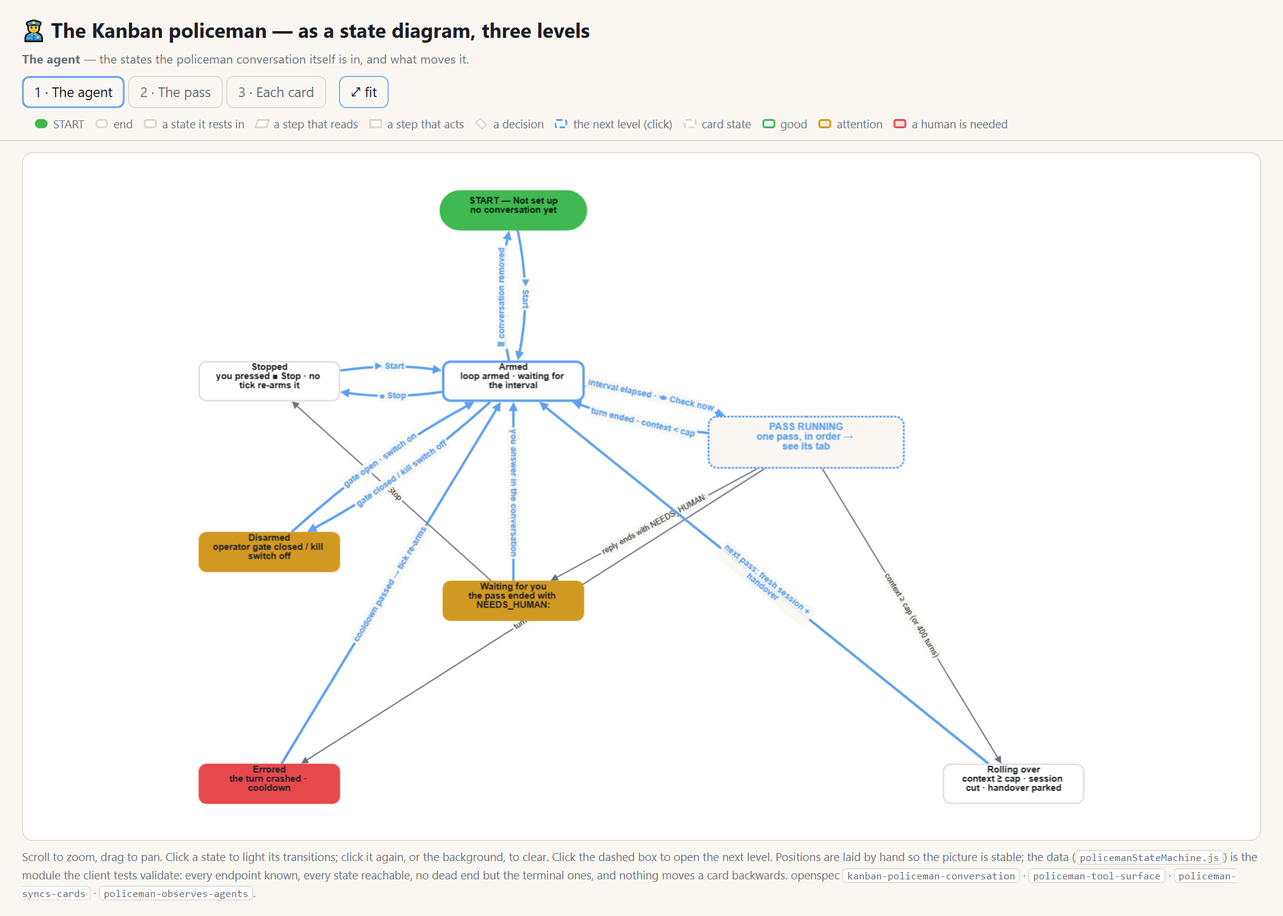
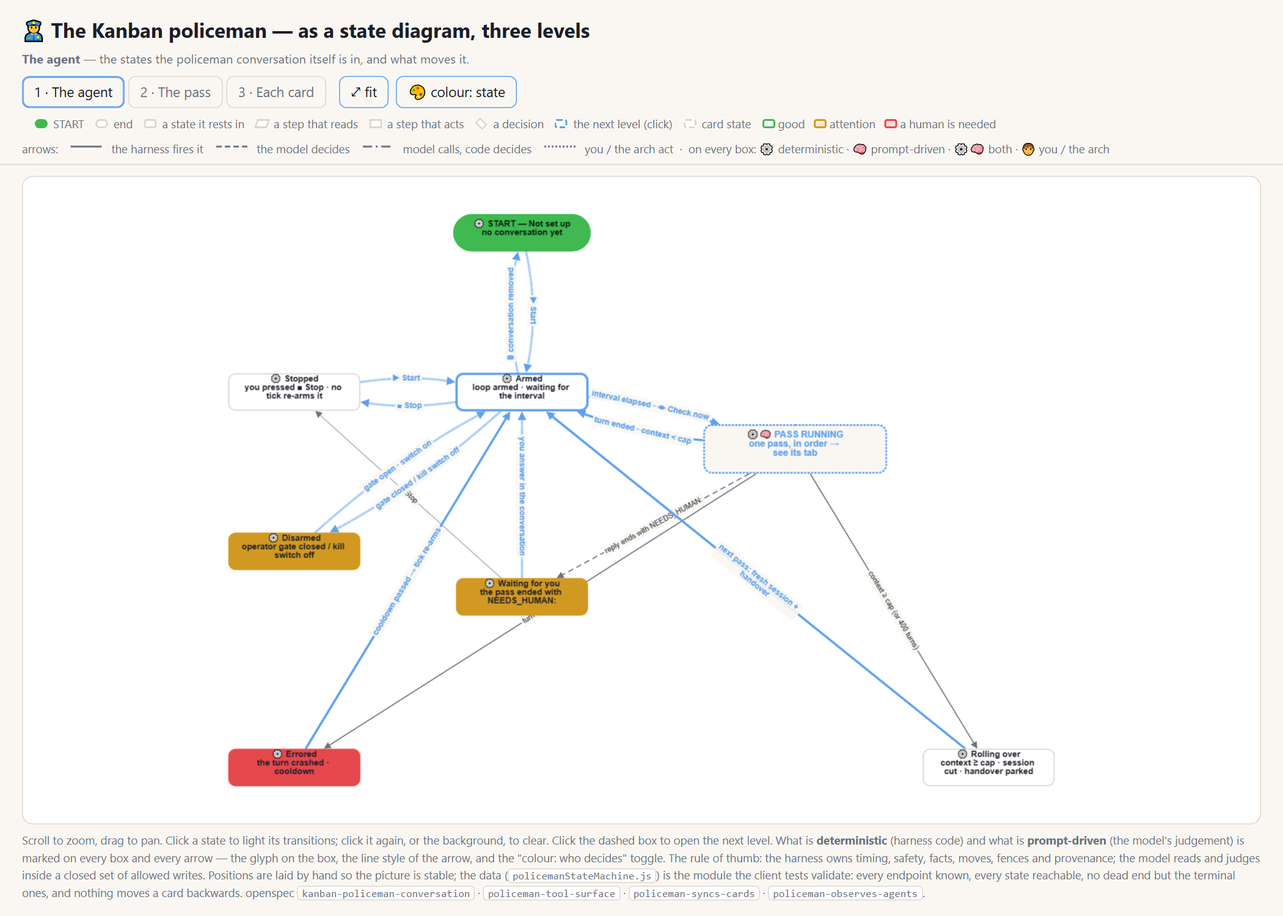
understanding app: who decides — deterministic (harness code) vs prompt-driven (the model) vs mixed vs you, on every node and edge: line styles, glyphs, and a colour-by-who toggle; pinned by tests

diff --git a/client/src/components/taskgraph/policemanStateMachine.js b/client/src/components/taskgraph/policemanStateMachine.js
@@ -23,7 +23,21 @@ export const SHAPES = {
   process: 'a step that acts',
   decision: 'a decision',
 };
-const S = (id, label, sub, x, y, opts = {}) => ({ id, label, sub, x, y, kind: 'state', tone: 'plain', shape: 'state', ...opts });
+// WHO decides — the honest split between program and prompt, on every node and edge:
+//   code  = deterministic: the harness's C# does it (timers, caps, the verifier's facts and
+//           moves, the tool fences, the mechanical judge, provenance stamps)
+//   model = prompt-driven: the policeman (an LLM turn) judges or chooses (reading a transcript,
+//           picking an observation state, deciding to flag, writing the verdict, the step order)
+//   mixed = the model calls it, the code decides the outcome (sync_card links → the verifier
+//           moves; flag_needs_human → the code stamps and refuses manual cards)
+//   human = outside the policeman: you, or the arch agent (Start/Stop, Resolve, assign, ping)
+export const WHO = {
+  code: { glyph: '⚙', word: 'deterministic — harness code' },
+  model: { glyph: '🧠', word: 'prompt-driven — the model judges' },
+  mixed: { glyph: '⚙🧠', word: 'the model calls it, the code decides' },
+  human: { glyph: '🧑', word: 'you, or the arch agent' },
+};
+const S = (id, label, sub, x, y, opts = {}) => ({ id, label, sub, x, y, kind: 'state', tone: 'plain', shape: 'state', who: 'code', ...opts });
 
 export const NODES = [
   // ---- groups (compound parents) ---------------------------------------------------------------
@@ -44,44 +58,44 @@ export const NODES = [
   S('s1', '1 · board_integrity', 'read the harness’s verdict', -440, 0, { parent: 'pass', kind: 'step', shape: 'io' }),
   S('s2', '2 · list_tasks', 'read every card and its marks', -120, 0, { parent: 'pass', kind: 'step', shape: 'io' }),
   S('s3', '3 · read_transcript', 'read the assignee’s last 4 messages', 200, 0, { parent: 'pass', kind: 'step', shape: 'io' }),
-  S('s4', '4 · classify', 'which state is this card in?', 560, 0, { parent: 'pass', kind: 'step', tone: 'ok', shape: 'decision' }),
+  S('s4', '4 · classify', 'which state is this card in?', 560, 0, { parent: 'pass', kind: 'step', tone: 'ok', shape: 'decision', who: 'model' }),
   S('s5', '5 · list_pull_requests', 'read each repo’s PRs, traced to cards', 560, 200, { parent: 'pass', kind: 'step', shape: 'io' }),
-  S('s6', '6 · sync_card', 'link the PR · the harness moves the card', 200, 200, { parent: 'pass', kind: 'step', tone: 'ok', shape: 'process' }),
-  S('s7', '7 · flag / clear', 'flag_needs_human · clear_needs_human', -120, 200, { parent: 'pass', kind: 'step', tone: 'bad', shape: 'process' }),
-  S('s8', '8 · verdict', 'counts · moves · observations · flags', -440, 200, { parent: 'pass', kind: 'step', shape: 'terminal' }),
+  S('s6', '6 · sync_card', 'link the PR · the harness moves the card', 200, 200, { parent: 'pass', kind: 'step', tone: 'ok', shape: 'process', who: 'mixed' }),
+  S('s7', '7 · flag / clear', 'flag_needs_human · clear_needs_human', -120, 200, { parent: 'pass', kind: 'step', tone: 'bad', shape: 'process', who: 'mixed' }),
+  S('s8', '8 · verdict', 'counts · moves · observations · flags', -440, 200, { parent: 'pass', kind: 'step', shape: 'terminal', who: 'model' }),
 
   // ---- level 3: each card (inside "cards") -------------------------------------------------
   S('c-unassigned', '📥 Unassigned', 'To do, nobody on it → nothing', -120, 560, { parent: 'cards', kind: 'card' }),
   S('c-waiting', '⏳ Waiting for the arch', 'assigned, not pinged → nothing', 220, 560, { parent: 'cards', kind: 'card' }),
-  S('c-working', '⚙ Working', 'agent active, column = facts → observe Working', 560, 560, { parent: 'cards', kind: 'card', tone: 'ok' }),
+  S('c-working', 'Working', 'agent active, column = facts → observe Working', 560, 560, { parent: 'cards', kind: 'card', tone: 'ok', who: 'model' }),
   S('c-ahead', '⚠ Ahead of the facts', 'column > verified → report; never demote', 1000, 560, { parent: 'cards', kind: 'card', tone: 'warn' }),
   S('c-behind', '⏩ Behind the facts', 'PR / merge found → sync_card', 220, 840, { parent: 'cards', kind: 'card', tone: 'ok' }),
-  S('c-stuck', '🛑 Stuck', 'asked · blocked · errored · silent → observe, flag', 560, 840, { parent: 'cards', kind: 'card', tone: 'bad' }),
+  S('c-stuck', '🛑 Stuck', 'asked · blocked · errored · silent → observe, flag', 560, 840, { parent: 'cards', kind: 'card', tone: 'bad', who: 'mixed' }),
   S('c-skip', '🚫 Not mine', 'manual or delivered → leave alone', 1000, 840, { parent: 'cards', kind: 'card', shape: 'terminal' }),
   S('c-flagged', '🆘 Flagged', 'human request on it → clear if mine & resolved', -120, 1120, { parent: 'cards', kind: 'card', tone: 'bad' }),
-  S('c-review', '👀 Waiting for review', 'PR open, agent done → observe; report if stale', 560, 1120, { parent: 'cards', kind: 'card' }),
+  S('c-review', '👀 Waiting for review', 'PR open, agent done → observe; report if stale', 560, 1120, { parent: 'cards', kind: 'card', who: 'mixed' }),
 ];
 
-const E = (source, target, label, kind = 'lifecycle') => ({ id: `${source}->${target}`, source, target, label, kind });
+const E = (source, target, label, kind = 'lifecycle', who = kind === 'flow' || kind === 'link' ? 'model' : 'code') => ({ id: `${source}->${target}`, source, target, label, kind, who });
 
 export const EDGES = [
   // ---- level 1: the agent ------------------------------------------------------------------
-  E('off', 'armed', '▶ Start'),
+  E('off', 'armed', '▶ Start', 'lifecycle', 'human'),
   E('armed', 'pass', 'interval elapsed · 👁 Check now'),
   E('pass', 'armed', 'turn ended · context < cap'),
-  E('pass', 'wait', 'reply ends with NEEDS_HUMAN:'),
-  E('wait', 'armed', 'you answer in the conversation'),
+  E('pass', 'wait', 'reply ends with NEEDS_HUMAN:', 'lifecycle', 'model'),
+  E('wait', 'armed', 'you answer in the conversation', 'lifecycle', 'human'),
   E('pass', 'rollover', 'context ≥ cap (or 400 turns)'),
   E('rollover', 'armed', 'next pass: fresh session + handover'),
   E('pass', 'errored', 'turn crashed'),
   E('errored', 'armed', 'cooldown passed → tick re-arms'),
   E('armed', 'armed', 'pass 100 (recipe cap) → tick re-arms'),
-  E('armed', 'stopped', '■ Stop'),
-  E('wait', 'stopped', '■ Stop'),
-  E('stopped', 'armed', '▶ Start'),
-  E('armed', 'paused', 'gate closed / kill switch off'),
-  E('paused', 'armed', 'gate open · switch on'),
-  E('armed', 'off', '🗑 conversation removed'),
+  E('armed', 'stopped', '■ Stop', 'lifecycle', 'human'),
+  E('wait', 'stopped', '■ Stop', 'lifecycle', 'human'),
+  E('stopped', 'armed', '▶ Start', 'lifecycle', 'human'),
+  E('armed', 'paused', 'gate closed / kill switch off', 'lifecycle', 'human'),
+  E('paused', 'armed', 'gate open · switch on', 'lifecycle', 'human'),
+  E('armed', 'off', '🗑 conversation removed', 'lifecycle', 'human'),
 
   // ---- level 2: the pass -------------------------------------------------------------------
   E('s1', 's2', '', 'flow'),
@@ -96,31 +110,31 @@ export const EDGES = [
   E('s4', 'cards', 'lands in exactly one of', 'link'),
 
   // ---- level 3: each card ------------------------------------------------------------------
-  E('c-unassigned', 'c-waiting', 'arch or you assign', 'card'),
-  E('c-waiting', 'c-working', 'arch pings', 'card'),
-  E('c-working', 'c-ahead', 'someone moved it past the facts', 'card'),
+  E('c-unassigned', 'c-waiting', 'arch or you assign', 'card', 'human'),
+  E('c-waiting', 'c-working', 'arch pings', 'card', 'human'),
+  E('c-working', 'c-ahead', 'someone moved it past the facts', 'card', 'human'),
   E('c-ahead', 'c-working', 'facts catch up', 'card'),
   E('c-working', 'c-behind', 'PR traced to the card', 'card'),
-  E('c-working', 'c-stuck', 'asks · blocks · errors · silent > window', 'card'),
+  E('c-working', 'c-stuck', 'asks · blocks · errors · silent > window', 'card', 'mixed'),
   E('c-working', 'c-skip', 'delivered · go manual', 'card'),
-  E('c-ahead', 'c-stuck', 'keeps lying, nobody fixes it', 'card'),
+  E('c-ahead', 'c-stuck', 'keeps lying, nobody fixes it', 'card', 'model'),
   E('c-behind', 'c-review', 'sync_card → PR open', 'card'),
   E('c-behind', 'c-skip', 'sync_card → merged / done', 'card'),
   E('c-review', 'c-skip', 'merged', 'card'),
   E('c-review', 'c-ahead', 'PR closed unmerged', 'card'),
-  E('c-stuck', 'c-flagged', 'flag_needs_human (with reason)', 'card'),
-  E('c-flagged', 'c-working', 'you Resolve · agent back on track', 'card'),
+  E('c-stuck', 'c-flagged', 'flag_needs_human (with reason)', 'card', 'mixed'),
+  E('c-flagged', 'c-working', 'you Resolve · agent back on track', 'card', 'human'),
 ];
 
 /** Cytoscape elements: nodes carry their preset position; groups none (they size to children). */
 export function toElements() {
   return [
     ...NODES.map((n) => ({
-      data: { id: n.id, label: n.label, sub: n.sub || '', kind: n.kind, tone: n.tone || 'plain', shape: n.shape || (n.kind === 'group' ? 'group' : 'state'), parent: n.parent || undefined },
+      data: { id: n.id, label: n.label, sub: n.sub || '', kind: n.kind, tone: n.tone || 'plain', shape: n.shape || (n.kind === 'group' ? 'group' : 'state'), who: n.who || 'code', parent: n.parent || undefined },
       position: n.kind === 'group' ? undefined : { x: n.x, y: n.y },
-      classes: `${n.kind} tone-${n.tone || 'plain'} shape-${n.shape || (n.kind === 'group' ? 'group' : 'state')}`,
+      classes: `${n.kind} tone-${n.tone || 'plain'} shape-${n.shape || (n.kind === 'group' ? 'group' : 'state')} who-${n.who || 'code'}`,
     })),
-    ...EDGES.map((e) => ({ data: { id: e.id, source: e.source, target: e.target, label: e.label, kind: e.kind, curve: e.curve || 'bezier' }, classes: e.kind })),
+    ...EDGES.map((e) => ({ data: { id: e.id, source: e.source, target: e.target, label: e.label, kind: e.kind, who: e.who || 'code', curve: e.curve || 'bezier' }, classes: `${e.kind} who-${e.who || 'code'}` })),
   ];
 }
 
@@ -143,16 +157,16 @@ export function levelElements(level) {
   const own = NODES.filter((n) => n.kind !== 'group' && n.parent === level);
   const ids = new Set(own.map((n) => n.id));
   const nodes = own.map((n) => ({
-    data: { id: n.id, label: n.label, sub: n.sub || '', kind: n.kind, tone: n.tone || 'plain', shape: n.shape || 'state' },
+    data: { id: n.id, label: n.label, sub: n.sub || '', kind: n.kind, tone: n.tone || 'plain', shape: n.shape || 'state', who: n.who || 'code' },
     position: { x: n.x, y: n.y },
-    classes: `${n.kind} tone-${n.tone || 'plain'} shape-${n.shape || 'state'}`,
+    classes: `${n.kind} tone-${n.tone || 'plain'} shape-${n.shape || 'state'} who-${n.who || 'code'}`,
   }));
   if (L.ref) {
     ids.add(L.ref.id);
-    nodes.push({ data: { id: L.ref.id, label: L.ref.label, sub: L.ref.sub, kind: 'ref', tone: 'plain', shape: 'ref', to: L.ref.to }, position: { x: L.ref.x, y: L.ref.y }, classes: 'ref shape-ref' });
+    nodes.push({ data: { id: L.ref.id, label: L.ref.label, sub: L.ref.sub, kind: 'ref', tone: 'plain', shape: 'ref', who: 'mixed', to: L.ref.to }, position: { x: L.ref.x, y: L.ref.y }, classes: 'ref shape-ref who-mixed' });
   }
   const edges = EDGES.filter((e) => ids.has(e.source) && ids.has(e.target)).map((e) => ({
-    data: { id: e.id, source: e.source, target: e.target, label: e.label, kind: e.kind, curve: e.curve || 'bezier' }, classes: e.kind,
+    data: { id: e.id, source: e.source, target: e.target, label: e.label, kind: e.kind, who: e.who || 'code', curve: e.curve || 'bezier' }, classes: `${e.kind} who-${e.who || 'code'}`,
   }));
   return [...nodes, ...edges];
 }
@@ -167,6 +181,8 @@ export function validate() {
     if (!ids.has(e.source)) problems.push(`${e.id}: unknown source`);
     if (!ids.has(e.target)) problems.push(`${e.id}: unknown target`);
   }
+  for (const n of NODES) if (n.kind !== 'group' && !WHO[n.who || 'code']) problems.push(`${n.id}: unknown who ${n.who}`);
+  for (const e of EDGES) if (!WHO[e.who || 'code']) problems.push(`${e.id}: unknown who ${e.who}`);
   const outs = new Set(EDGES.map((e) => e.source));
   const ins = new Set(EDGES.map((e) => e.target));
   for (const n of NODES) {

diff --git a/understanding-app/policemanStateMachine.js b/understanding-app/policemanStateMachine.js
@@ -24,7 +24,21 @@ export const SHAPES = {
   process: 'a step that acts',
   decision: 'a decision',
 };
-const S = (id, label, sub, x, y, opts = {}) => ({ id, label, sub, x, y, kind: 'state', tone: 'plain', shape: 'state', ...opts });
+// WHO decides — the honest split between program and prompt, on every node and edge:
+//   code  = deterministic: the harness's C# does it (timers, caps, the verifier's facts and
+//           moves, the tool fences, the mechanical judge, provenance stamps)
+//   model = prompt-driven: the policeman (an LLM turn) judges or chooses (reading a transcript,
+//           picking an observation state, deciding to flag, writing the verdict, the step order)
+//   mixed = the model calls it, the code decides the outcome (sync_card links → the verifier
+//           moves; flag_needs_human → the code stamps and refuses manual cards)
+//   human = outside the policeman: you, or the arch agent (Start/Stop, Resolve, assign, ping)
+export const WHO = {
+  code: { glyph: '⚙', word: 'deterministic — harness code' },
+  model: { glyph: '🧠', word: 'prompt-driven — the model judges' },
+  mixed: { glyph: '⚙🧠', word: 'the model calls it, the code decides' },
+  human: { glyph: '🧑', word: 'you, or the arch agent' },
+};
+const S = (id, label, sub, x, y, opts = {}) => ({ id, label, sub, x, y, kind: 'state', tone: 'plain', shape: 'state', who: 'code', ...opts });
 
 export const NODES = [
   // ---- groups (compound parents) ---------------------------------------------------------------
@@ -45,44 +59,44 @@ export const NODES = [
   S('s1', '1 · board_integrity', 'read the harness’s verdict', -440, 0, { parent: 'pass', kind: 'step', shape: 'io' }),
   S('s2', '2 · list_tasks', 'read every card and its marks', -120, 0, { parent: 'pass', kind: 'step', shape: 'io' }),
   S('s3', '3 · read_transcript', 'read the assignee’s last 4 messages', 200, 0, { parent: 'pass', kind: 'step', shape: 'io' }),
-  S('s4', '4 · classify', 'which state is this card in?', 560, 0, { parent: 'pass', kind: 'step', tone: 'ok', shape: 'decision' }),
+  S('s4', '4 · classify', 'which state is this card in?', 560, 0, { parent: 'pass', kind: 'step', tone: 'ok', shape: 'decision', who: 'model' }),
   S('s5', '5 · list_pull_requests', 'read each repo’s PRs, traced to cards', 560, 200, { parent: 'pass', kind: 'step', shape: 'io' }),
-  S('s6', '6 · sync_card', 'link the PR · the harness moves the card', 200, 200, { parent: 'pass', kind: 'step', tone: 'ok', shape: 'process' }),
-  S('s7', '7 · flag / clear', 'flag_needs_human · clear_needs_human', -120, 200, { parent: 'pass', kind: 'step', tone: 'bad', shape: 'process' }),
-  S('s8', '8 · verdict', 'counts · moves · observations · flags', -440, 200, { parent: 'pass', kind: 'step', shape: 'terminal' }),
+  S('s6', '6 · sync_card', 'link the PR · the harness moves the card', 200, 200, { parent: 'pass', kind: 'step', tone: 'ok', shape: 'process', who: 'mixed' }),
+  S('s7', '7 · flag / clear', 'flag_needs_human · clear_needs_human', -120, 200, { parent: 'pass', kind: 'step', tone: 'bad', shape: 'process', who: 'mixed' }),
+  S('s8', '8 · verdict', 'counts · moves · observations · flags', -440, 200, { parent: 'pass', kind: 'step', shape: 'terminal', who: 'model' }),
 
   // ---- level 3: each card (inside "cards") -------------------------------------------------
   S('c-unassigned', '📥 Unassigned', 'To do, nobody on it → nothing', -120, 560, { parent: 'cards', kind: 'card' }),
   S('c-waiting', '⏳ Waiting for the arch', 'assigned, not pinged → nothing', 220, 560, { parent: 'cards', kind: 'card' }),
-  S('c-working', '⚙ Working', 'agent active, column = facts → observe Working', 560, 560, { parent: 'cards', kind: 'card', tone: 'ok' }),
+  S('c-working', 'Working', 'agent active, column = facts → observe Working', 560, 560, { parent: 'cards', kind: 'card', tone: 'ok', who: 'model' }),
   S('c-ahead', '⚠ Ahead of the facts', 'column > verified → report; never demote', 1000, 560, { parent: 'cards', kind: 'card', tone: 'warn' }),
   S('c-behind', '⏩ Behind the facts', 'PR / merge found → sync_card', 220, 840, { parent: 'cards', kind: 'card', tone: 'ok' }),
-  S('c-stuck', '🛑 Stuck', 'asked · blocked · errored · silent → observe, flag', 560, 840, { parent: 'cards', kind: 'card', tone: 'bad' }),
+  S('c-stuck', '🛑 Stuck', 'asked · blocked · errored · silent → observe, flag', 560, 840, { parent: 'cards', kind: 'card', tone: 'bad', who: 'mixed' }),
   S('c-skip', '🚫 Not mine', 'manual or delivered → leave alone', 1000, 840, { parent: 'cards', kind: 'card', shape: 'terminal' }),
   S('c-flagged', '🆘 Flagged', 'human request on it → clear if mine & resolved', -120, 1120, { parent: 'cards', kind: 'card', tone: 'bad' }),
-  S('c-review', '👀 Waiting for review', 'PR open, agent done → observe; report if stale', 560, 1120, { parent: 'cards', kind: 'card' }),
+  S('c-review', '👀 Waiting for review', 'PR open, agent done → observe; report if stale', 560, 1120, { parent: 'cards', kind: 'card', who: 'mixed' }),
 ];
 
-const E = (source, target, label, kind = 'lifecycle') => ({ id: `${source}->${target}`, source, target, label, kind });
+const E = (source, target, label, kind = 'lifecycle', who = kind === 'flow' || kind === 'link' ? 'model' : 'code') => ({ id: `${source}->${target}`, source, target, label, kind, who });
 
 export const EDGES = [
   // ---- level 1: the agent ------------------------------------------------------------------
-  E('off', 'armed', '▶ Start'),
+  E('off', 'armed', '▶ Start', 'lifecycle', 'human'),
   E('armed', 'pass', 'interval elapsed · 👁 Check now'),
   E('pass', 'armed', 'turn ended · context < cap'),
-  E('pass', 'wait', 'reply ends with NEEDS_HUMAN:'),
-  E('wait', 'armed', 'you answer in the conversation'),
+  E('pass', 'wait', 'reply ends with NEEDS_HUMAN:', 'lifecycle', 'model'),
+  E('wait', 'armed', 'you answer in the conversation', 'lifecycle', 'human'),
   E('pass', 'rollover', 'context ≥ cap (or 400 turns)'),
   E('rollover', 'armed', 'next pass: fresh session + handover'),
   E('pass', 'errored', 'turn crashed'),
   E('errored', 'armed', 'cooldown passed → tick re-arms'),
   E('armed', 'armed', 'pass 100 (recipe cap) → tick re-arms'),
-  E('armed', 'stopped', '■ Stop'),
-  E('wait', 'stopped', '■ Stop'),
-  E('stopped', 'armed', '▶ Start'),
-  E('armed', 'paused', 'gate closed / kill switch off'),
-  E('paused', 'armed', 'gate open · switch on'),
-  E('armed', 'off', '🗑 conversation removed'),
+  E('armed', 'stopped', '■ Stop', 'lifecycle', 'human'),
+  E('wait', 'stopped', '■ Stop', 'lifecycle', 'human'),
+  E('stopped', 'armed', '▶ Start', 'lifecycle', 'human'),
+  E('armed', 'paused', 'gate closed / kill switch off', 'lifecycle', 'human'),
+  E('paused', 'armed', 'gate open · switch on', 'lifecycle', 'human'),
+  E('armed', 'off', '🗑 conversation removed', 'lifecycle', 'human'),
 
   // ---- level 2: the pass -------------------------------------------------------------------
   E('s1', 's2', '', 'flow'),
@@ -97,31 +111,31 @@ export const EDGES = [
   E('s4', 'cards', 'lands in exactly one of', 'link'),
 
   // ---- level 3: each card ------------------------------------------------------------------
-  E('c-unassigned', 'c-waiting', 'arch or you assign', 'card'),
-  E('c-waiting', 'c-working', 'arch pings', 'card'),
-  E('c-working', 'c-ahead', 'someone moved it past the facts', 'card'),
+  E('c-unassigned', 'c-waiting', 'arch or you assign', 'card', 'human'),
+  E('c-waiting', 'c-working', 'arch pings', 'card', 'human'),
+  E('c-working', 'c-ahead', 'someone moved it past the facts', 'card', 'human'),
   E('c-ahead', 'c-working', 'facts catch up', 'card'),
   E('c-working', 'c-behind', 'PR traced to the card', 'card'),
-  E('c-working', 'c-stuck', 'asks · blocks · errors · silent > window', 'card'),
+  E('c-working', 'c-stuck', 'asks · blocks · errors · silent > window', 'card', 'mixed'),
   E('c-working', 'c-skip', 'delivered · go manual', 'card'),
-  E('c-ahead', 'c-stuck', 'keeps lying, nobody fixes it', 'card'),
+  E('c-ahead', 'c-stuck', 'keeps lying, nobody fixes it', 'card', 'model'),
   E('c-behind', 'c-review', 'sync_card → PR open', 'card'),
   E('c-behind', 'c-skip', 'sync_card → merged / done', 'card'),
   E('c-review', 'c-skip', 'merged', 'card'),
   E('c-review', 'c-ahead', 'PR closed unmerged', 'card'),
-  E('c-stuck', 'c-flagged', 'flag_needs_human (with reason)', 'card'),
-  E('c-flagged', 'c-working', 'you Resolve · agent back on track', 'card'),
+  E('c-stuck', 'c-flagged', 'flag_needs_human (with reason)', 'card', 'mixed'),
+  E('c-flagged', 'c-working', 'you Resolve · agent back on track', 'card', 'human'),
 ];
 
 /** Cytoscape elements: nodes carry their preset position; groups none (they size to children). */
 export function toElements() {
   return [
     ...NODES.map((n) => ({
-      data: { id: n.id, label: n.label, sub: n.sub || '', kind: n.kind, tone: n.tone || 'plain', shape: n.shape || (n.kind === 'group' ? 'group' : 'state'), parent: n.parent || undefined },
+      data: { id: n.id, label: n.label, sub: n.sub || '', kind: n.kind, tone: n.tone || 'plain', shape: n.shape || (n.kind === 'group' ? 'group' : 'state'), who: n.who || 'code', parent: n.parent || undefined },
       position: n.kind === 'group' ? undefined : { x: n.x, y: n.y },
-      classes: `${n.kind} tone-${n.tone || 'plain'} shape-${n.shape || (n.kind === 'group' ? 'group' : 'state')}`,
+      classes: `${n.kind} tone-${n.tone || 'plain'} shape-${n.shape || (n.kind === 'group' ? 'group' : 'state')} who-${n.who || 'code'}`,
     })),
-    ...EDGES.map((e) => ({ data: { id: e.id, source: e.source, target: e.target, label: e.label, kind: e.kind, curve: e.curve || 'bezier' }, classes: e.kind })),
+    ...EDGES.map((e) => ({ data: { id: e.id, source: e.source, target: e.target, label: e.label, kind: e.kind, who: e.who || 'code', curve: e.curve || 'bezier' }, classes: `${e.kind} who-${e.who || 'code'}` })),
   ];
 }
 
@@ -144,16 +158,16 @@ export function levelElements(level) {
   const own = NODES.filter((n) => n.kind !== 'group' && n.parent === level);
   const ids = new Set(own.map((n) => n.id));
   const nodes = own.map((n) => ({
-    data: { id: n.id, label: n.label, sub: n.sub || '', kind: n.kind, tone: n.tone || 'plain', shape: n.shape || 'state' },
+    data: { id: n.id, label: n.label, sub: n.sub || '', kind: n.kind, tone: n.tone || 'plain', shape: n.shape || 'state', who: n.who || 'code' },
     position: { x: n.x, y: n.y },
-    classes: `${n.kind} tone-${n.tone || 'plain'} shape-${n.shape || 'state'}`,
+    classes: `${n.kind} tone-${n.tone || 'plain'} shape-${n.shape || 'state'} who-${n.who || 'code'}`,
   }));
   if (L.ref) {
     ids.add(L.ref.id);
-    nodes.push({ data: { id: L.ref.id, label: L.ref.label, sub: L.ref.sub, kind: 'ref', tone: 'plain', shape: 'ref', to: L.ref.to }, position: { x: L.ref.x, y: L.ref.y }, classes: 'ref shape-ref' });
+    nodes.push({ data: { id: L.ref.id, label: L.ref.label, sub: L.ref.sub, kind: 'ref', tone: 'plain', shape: 'ref', who: 'mixed', to: L.ref.to }, position: { x: L.ref.x, y: L.ref.y }, classes: 'ref shape-ref who-mixed' });
   }
   const edges = EDGES.filter((e) => ids.has(e.source) && ids.has(e.target)).map((e) => ({
-    data: { id: e.id, source: e.source, target: e.target, label: e.label, kind: e.kind, curve: e.curve || 'bezier' }, classes: e.kind,
+    data: { id: e.id, source: e.source, target: e.target, label: e.label, kind: e.kind, who: e.who || 'code', curve: e.curve || 'bezier' }, classes: `${e.kind} who-${e.who || 'code'}`,
   }));
   return [...nodes, ...edges];
 }
@@ -168,6 +182,8 @@ export function validate() {
     if (!ids.has(e.source)) problems.push(`${e.id}: unknown source`);
     if (!ids.has(e.target)) problems.push(`${e.id}: unknown target`);
   }
+  for (const n of NODES) if (n.kind !== 'group' && !WHO[n.who || 'code']) problems.push(`${n.id}: unknown who ${n.who}`);
+  for (const e of EDGES) if (!WHO[e.who || 'code']) problems.push(`${e.id}: unknown who ${e.who}`);
   const outs = new Set(EDGES.map((e) => e.source));
   const ins = new Set(EDGES.map((e) => e.target));
   for (const n of NODES) {

diff --git a/understanding-app/app.js b/understanding-app/app.js
@@ -1,7 +1,7 @@
 // Understanding app — the Kanban policeman as a state diagram in three levels (openspec
 // policeman-observes-agents). Build-less, relative URLs only; cytoscape is vendored; the data
 // module is a vendored copy of client/src/components/taskgraph/policemanStateMachine.js.
-import { LEVELS, levelElements } from './policemanStateMachine.js';
+import { LEVELS, WHO, levelElements } from './policemanStateMachine.js';
 
 const $ = (s) => document.querySelector(s);
 const css = (v) => getComputedStyle(document.documentElement).getPropertyValue(v).trim();
@@ -9,6 +9,8 @@ const css = (v) => getComputedStyle(document.documentElement).getPropertyValue(v
 const STYLE = [
     { selector: 'node', style: { 'label': 'data(label)', 'text-wrap': 'wrap', 'text-max-width': 190, 'font-size': 15, 'font-weight': 700, 'color': css('--text'), 'text-valign': 'center', 'text-halign': 'center', 'shape': 'round-rectangle', 'width': 230, 'height': 64, 'background-color': css('--surface'), 'border-width': 2, 'border-color': css('--border'), 'text-margin-y': -8 } },
     { selector: 'node[sub]', style: { 'label': (n) => n.data('label') + '\n' + n.data('sub') } },
+    // WHO decides, always visible: a glyph before the name.
+    { selector: 'node[who][sub]', style: { 'label': (n) => (WHO[n.data('who')] ? WHO[n.data('who')].glyph + ' ' : '') + n.data('label') + '\n' + n.data('sub') } },
     { selector: 'node.step', style: { 'shape': 'rectangle', 'width': 250, 'height': 66, 'font-size': 13.5 } },
     { selector: 'node.card', style: { 'width': 290, 'height': 66, 'border-style': 'dashed' } },
     { selector: 'node.tone-ok', style: { 'border-color': css('--green') } },
@@ -33,6 +35,15 @@ const STYLE = [
     { selector: 'node.lit', style: { 'border-width': 4, 'border-color': css('--accent') } },
     { selector: 'node:selected, edge:selected', style: { 'overlay-opacity': 0 } },
 
+  // WHO decides, on the edges: solid = the harness fires it · dashed = the model decides · dotted = you / the arch.
+  { selector: 'edge.who-model', style: { 'line-style': 'dashed', 'line-dash-pattern': [10, 6] } },
+  { selector: 'edge.who-mixed', style: { 'line-style': 'dashed', 'line-dash-pattern': [10, 6, 2, 6] } },
+  { selector: 'edge.who-human', style: { 'line-style': 'dotted' } },
+  // "Colour by who decides" (the toggle): nodes take the who palette instead of the state tones.
+  { selector: 'node.by-who.who-code', style: { 'background-color': css('--surface'), 'border-color': css('--muted'), 'border-style': 'solid', 'color': css('--text') } },
+  { selector: 'node.by-who.who-model', style: { 'background-color': 'rgba(155, 89, 182, .22)', 'border-color': '#9b59b6', 'border-style': 'dashed', 'color': css('--text') } },
+  { selector: 'node.by-who.who-mixed', style: { 'background-color': 'rgba(155, 89, 182, .10)', 'border-color': '#9b59b6', 'border-style': 'double', 'border-width': 4, 'color': css('--text') } },
+  { selector: 'node.by-who.who-human', style: { 'background-color': 'rgba(94, 160, 239, .16)', 'border-color': css('--accent'), 'border-style': 'dotted', 'color': css('--text') } },
   // The stand-in for the nested level: a dashed accent box; clicking it opens that level's tab.
   { selector: 'node.shape-ref', style: { 'shape': 'round-rectangle', 'corner-radius': '14px', 'width': 320, 'height': 84, 'border-style': 'dashed', 'border-width': 3, 'border-color': css('--accent'), 'color': css('--accent'), 'background-color': css('--bg'), 'font-size': 16 } },
 ];
@@ -73,6 +84,17 @@ function show(level) {
 }
 document.querySelectorAll('[data-tabs] .tab').forEach((t) => t.addEventListener('click', () => show(t.dataset.level)));
 $('#cy-fit').addEventListener('click', () => cys[current].animate({ fit: { eles: cys[current].elements(), padding: 40 }, duration: 350 }));
+// Colour by: the state's tone (good / attention / a human is needed) or WHO decides (code / model / mixed / you).
+let byWho = false;
+function applyColourMode() {
+  for (const cy of Object.values(cys)) cy.nodes().toggleClass('by-who', byWho);
+  $('#cy-who').classList.toggle('is-on', byWho);
+  $('#cy-who').textContent = byWho ? '🎨 colour: who decides' : '🎨 colour: state';
+  document.body.classList.toggle('by-who', byWho);
+}
+$('#cy-who').addEventListener('click', () => { byWho = !byWho; applyColourMode(); });
+window.setColourByWho = (v) => { byWho = !!v; applyColourMode(); };
+applyColourMode();
 window.addEventListener('resize', () => { cys[current].resize(); cys[current].fit(undefined, 40); });
 window.showLevel = show;
 show('agent');

diff --git a/understanding-app/index.html b/understanding-app/index.html
@@ -17,14 +17,16 @@
       <button class="tab" data-level="cards" role="tab">3 · Each card</button>
     </nav>
     <button class="btn" id="cy-fit">⤢ fit</button>
-    <span class="legend"><i class="sw sw-pill sw-start"></i> START <i class="sw sw-pill"></i> end <i class="sw sw-state"></i> a state it rests in <i class="sw sw-io"></i> a step that reads <i class="sw sw-step"></i> a step that acts <i class="sw sw-decision"></i> a decision <i class="sw sw-ref"></i> the next level (click) <i class="sw sw-card"></i> card state <i class="sw sw-ok"></i> good <i class="sw sw-warn"></i> attention <i class="sw sw-bad"></i> a human is needed</span>
+    <button class="btn" id="cy-who" title="Switch the node colours between the state's tone and WHO decides it">🎨 colour: state</button>
+    <span class="legend"><i class="sw sw-pill sw-start"></i> START <i class="sw sw-pill"></i> end <i class="sw sw-state"></i> a state it rests in <i class="sw sw-io"></i> a step that reads <i class="sw sw-step"></i> a step that acts <i class="sw sw-decision"></i> a decision <i class="sw sw-ref"></i> the next level (click) <i class="sw sw-card"></i> card state <span class="legend-tones"><i class="sw sw-ok"></i> good <i class="sw sw-warn"></i> attention <i class="sw sw-bad"></i> a human is needed</span><span class="legend-who"><i class="sw sw-who-code"></i> deterministic (code) <i class="sw sw-who-model"></i> prompt-driven (model) <i class="sw sw-who-mixed"></i> model calls, code decides <i class="sw sw-who-human"></i> you / the arch</span></span>
+    <span class="legend legend-edges">arrows: <i class="ln ln-solid"></i> the harness fires it <i class="ln ln-dashed"></i> the model decides <i class="ln ln-dashdot"></i> model calls, code decides <i class="ln ln-dotted"></i> you / the arch act &nbsp;·&nbsp; on every box: ⚙ deterministic · 🧠 prompt-driven · ⚙🧠 both · 🧑 you / the arch</span>
   </div>
 </header>
 <main>
   <div class="cy is-on" id="cy-agent" data-cy="agent"></div>
   <div class="cy" id="cy-pass" data-cy="pass"></div>
   <div class="cy" id="cy-cards" data-cy="cards"></div>
-  <p class="note">Scroll to zoom, drag to pan. Click a state to light its transitions; click it again, or the background, to clear. Click the dashed box to open the next level. Positions are laid by hand so the picture is stable; the data (<code>policemanStateMachine.js</code>) is the module the client tests validate: every endpoint known, every state reachable, no dead end but the terminal ones, and nothing moves a card backwards. openspec <code>kanban-policeman-conversation</code> · <code>policeman-tool-surface</code> · <code>policeman-syncs-cards</code> · <code>policeman-observes-agents</code>.</p>
+  <p class="note">Scroll to zoom, drag to pan. Click a state to light its transitions; click it again, or the background, to clear. Click the dashed box to open the next level. What is <b>deterministic</b> (harness code) and what is <b>prompt-driven</b> (the model's judgement) is marked on every box and every arrow — the glyph on the box, the line style of the arrow, and the "colour: who decides" toggle. The rule of thumb: the harness owns timing, safety, facts, moves, fences and provenance; the model reads and judges inside a closed set of allowed writes. Positions are laid by hand so the picture is stable; the data (<code>policemanStateMachine.js</code>) is the module the client tests validate: every endpoint known, every state reachable, no dead end but the terminal ones, and nothing moves a card backwards. openspec <code>kanban-policeman-conversation</code> · <code>policeman-tool-surface</code> · <code>policeman-syncs-cards</code> · <code>policeman-observes-agents</code>.</p>
 </main>
 <script src="./vendor/cytoscape.min.js"></script>
 <script type="module" src="./app.js"></script>

diff --git a/understanding-app/app.css b/understanding-app/app.css
@@ -21,3 +21,9 @@ main { flex: 1 1 auto; min-height: 0; display: flex; flex-direction: column; pad
 .tab { background: transparent; border: 1px solid var(--border); color: var(--muted); border-radius: 8px; padding: 5px 12px; font: inherit; cursor: pointer; }
 .tab.is-on { color: var(--text); border-color: var(--accent); box-shadow: inset 0 0 0 1px var(--accent); }
 .sw-ref { border-style: dashed; border-color: var(--accent); }
+.sw-who-code { border-color: var(--muted); } .sw-who-model { border-color: #9b59b6; border-style: dashed; background: rgba(155,89,182,.22); } .sw-who-mixed { border-color: #9b59b6; border-style: double; border-width: 3px; background: rgba(155,89,182,.10); } .sw-who-human { border-color: var(--accent); border-style: dotted; background: rgba(94,160,239,.16); }
+.legend-who { display: none; } body.by-who .legend-who { display: inline; } body.by-who .legend-tones { display: none; }
+.legend-edges { margin-left: 0; width: 100%; }
+.ln { display: inline-block; width: 34px; height: 0; border-top: 2px solid var(--muted); margin: 0 4px 4px 8px; vertical-align: middle; }
+.ln-dashed { border-top-style: dashed; } .ln-dotted { border-top-style: dotted; } .ln-dashdot { border-top: 0; height: 2px; background: repeating-linear-gradient(90deg, var(--muted) 0 10px, transparent 10px 14px, var(--muted) 14px 16px, transparent 16px 20px); }
+.btn.is-on { background: rgba(94,160,239,.16); }
